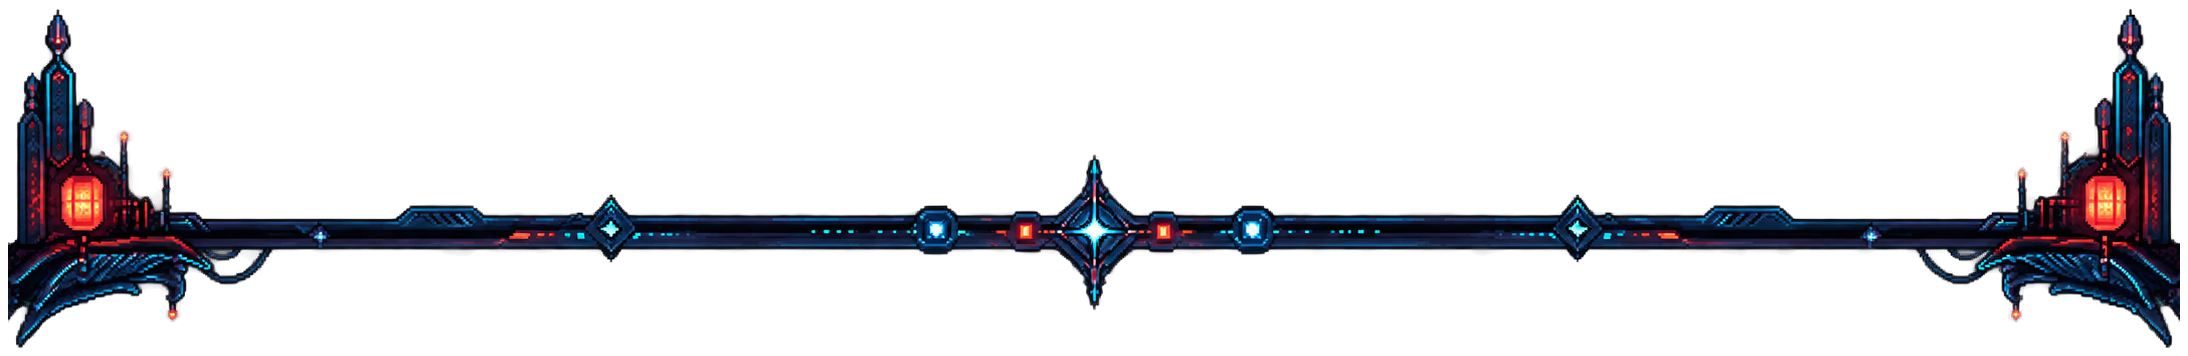
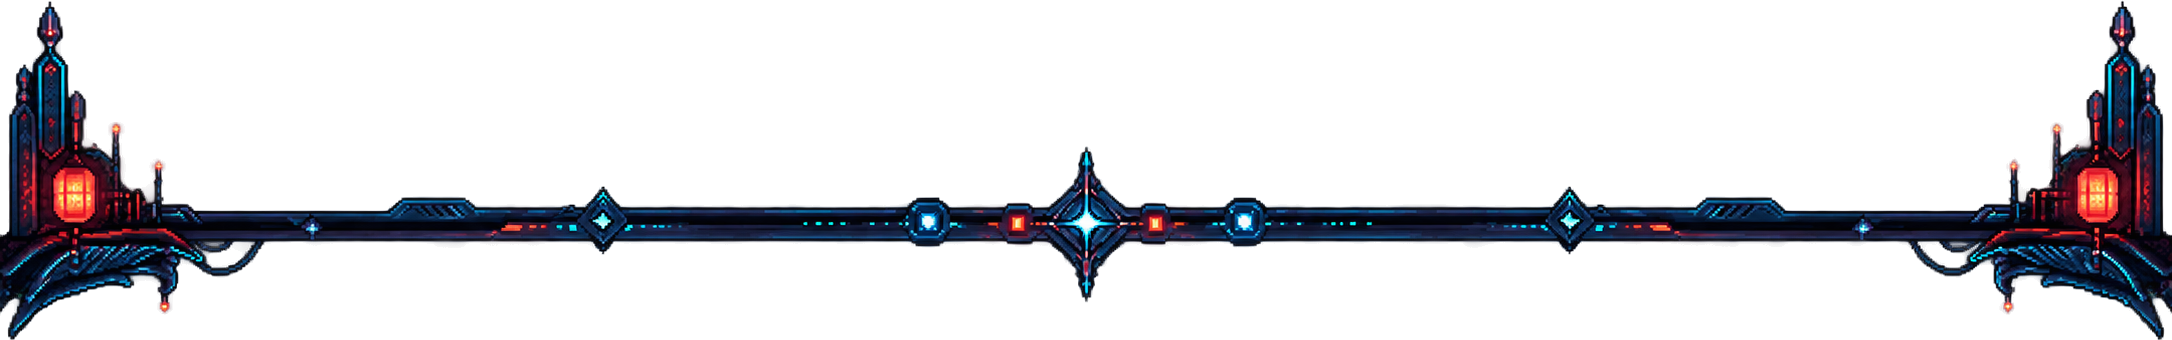
ajuste: refina molduras e limpa a abertura do perfil

Changed region(s): [[0.0, 0.0294, 1.0, 1.0]]

diff --git a/assets/v3/ASSET_MANIFEST.md b/assets/v3/ASSET_MANIFEST.md
@@ -2,7 +2,7 @@
 
 Fonte autoritativa: `github-profile-assets-v3.zip`, fornecido em 2026-09-07. Branch: `feat/profile-readme-v3`.
 
-Os três WebPs animados são cópias byte a byte dos originais. PNGs: alpha real confirmado; removido apenas resíduo quase invisível (alpha <= 8/255) antes do bounding box, sem remover preto interno da arte. Padding transparente 8px (6px nos micro-assets). Famílias estáticas têm derivados proporcionais normalizados; os masters permanecem em `source/`, sem redução. Sem OCR. Coordenadas reproduzíveis em `crop-map.json`.
+Os três WebPs animados são cópias byte a byte dos originais. PNGs: alpha real confirmado; removido apenas resíduo quase invisível (alpha <= 8/255) antes do bounding box, sem remover preto interno da arte. Padding transparente 8px (6px nos micro-assets); molduras sem padding após refinamento e header limpo com 4px. Famílias estáticas têm derivados proporcionais normalizados; os masters permanecem em `source/`, sem redução. Sem OCR. Coordenadas reproduzíveis em `crop-map.json`.
 
 Jardim de contribuições adiado por solicitação do usuário: não renderizar seção nem exigir sua placa neste checkpoint. Os seis arquivos `assets/arvore-*.jpg` foram recuperados de `origin/main` apenas para preservar o workflow existente, sem alterar a branch main.
 
@@ -25,11 +25,11 @@ O checkpoint contém entrada, Sobre mim e divisor; Vergil permanece visível com
 | stack-icons-1 | source/stack-icons-1.png | stack-icons-1.png | source | 1448 × 1086 | Original do ZIP; não usar diretamente no README. |
 | vite-ico | source/vite-ico.png | vite-ico.png | source | 1254 × 1254 | Original do ZIP; não usar diretamente no README. |
 | Katana original | source/katana_asset_transparente_v4.gif | katana_asset_transparente_v4.gif | source | 1600 × 380 | GIF original preservado. |
-| frame-top | frame/frame-top.png | border-top.png | final | 2188 × 353 | Recorte [0, 165, 2172, 502]; padding 8px. Escala nativa. |
-| frame-bottom | frame/frame-bottom.png | border-bottom.png | final | 2188 × 356 | Recorte [0, 313, 2172, 653]; padding 8px. Escala nativa. |
+| frame-top | frame/frame-top.png | border-top.png | final | 2172 × 337 | Recorte [0, 165, 2172, 502]; padding 0px. Escala nativa.  Encaixada diretamente ao conteúdo no mesmo parágrafo. |
+| frame-bottom | frame/frame-bottom.png | border-bottom.png | final | 2172 × 340 | Recorte [0, 313, 2172, 653]; padding 0px. Escala nativa.  Encaixada diretamente ao conteúdo no mesmo parágrafo. |
 | divisor-principal | dividers/divisor-principal.png | divisor principal.png | final | 2159 × 174 | Recorte [15, 282, 2158, 440]; padding 8px. Escala nativa. |
 | divisor-secundario | dividers/divisor-secundario.png | divisor-secundario.png | final | 2038 × 130 | Recorte [75, 302, 2097, 416]; padding 8px. Escala nativa. |
-| sobre-mim | headers/sobre-mim.png | header-sobre-mim.png | final | 1962 × 545 | Recorte [113, 98, 2059, 627]; padding 8px. Escala nativa. |
+| sobre-mim | headers/sobre-mim.png | header-sobre-mim.png | source | 1962 × 545 | Recorte [113, 98, 2059, 627]; padding 8px. Versão floral anterior preservada; substituída no README pela versão limpa. |
 | forja-tecnica | headers/forja-tecnica.png | header-tecnica.png | final | 1962 × 448 | Recorte [113, 138, 2059, 570]; padding 8px. Escala nativa. |
 | github | contact/github.png | contatos-icons.png | final | 440 × 440 | Recorte [180, 189, 571, 584]; padding 8px. Derivado normalizado proporcionalmente; master intacto em source/. |
 | linkedin | contact/linkedin.png | contatos-icons.png | final | 440 × 440 | Recorte [697, 196, 1107, 587]; padding 8px. Derivado normalizado proporcionalmente; master intacto em source/. |
@@ -83,7 +83,7 @@ O checkpoint contém entrada, Sobre mim e divisor; Vergil permanece visível com
 | personagem-fallback | about/personagem-fallback.png | programador-transparente.webp | fallback | 448 × 528 | Primeiro frame; não substitui animação nesta montagem. |
 | vergil-animado | footer/vergil-animado.webp | vergil-runtime-v3.7-exact-color.webp | final | 1200 × 240 | WebP original intacto; 20.60 MiB. |
 | vergil-fallback | footer/vergil-fallback.png | vergil-runtime-v3.7-exact-color.webp | fallback | 1200 × 240 | Primeiro frame; não substitui animação nesta montagem. |
-| Katana acento | dividers/katana-acento.webp | katana_asset_transparente_v4.gif | final | 1265 × 150 | Recorte união de 63 frames (128, 133, 1377, 267); WebP lossless; tempos e loop preservados; exibir a 24%. |
+| Katana acento | dividers/katana-acento.webp | katana_asset_transparente_v4.gif | reservado | 1265 × 150 | Recorte união de 63 frames (128, 133, 1377, 267); WebP lossless; tempos e loop preservados; Aprovada e reservada para reposicionamento futuro; fora do README. |
 | Projetos | headers/projetos.png | Não consta no ZIP | MISSING_APPROVED_ASSET | — | Não substituir por asset inventado. |
 | Contato (placa) | headers/contato.png | Não consta no ZIP | MISSING_APPROVED_ASSET | — | Não substituir por asset inventado. |
 | REST API | stack/rest-api.png | Não consta no ZIP | MISSING_APPROVED_ASSET | — | Não substituir por asset inventado. |
@@ -91,11 +91,33 @@ O checkpoint contém entrada, Sobre mim e divisor; Vergil permanece visível com
 ## Verificação do checkpoint
 
 - README passou pelo endpoint Markdown do GitHub: percentuais, `align="right"` e `br clear="right"` foram preservados pelo sanitizador.
-- Preview local usa esse HTML e aproxima o tema escuro do GitHub; conferido a 1100px e 390px, com as oito imagens carregadas e sem overflow horizontal. Não é screenshot da página remota.
+- Preview local usa esse HTML e aproxima o tema escuro do GitHub; conferido a 1100px e 390px, com as oito imagens da primeira montagem carregadas e sem overflow horizontal. Não é screenshot da página remota.
 - Banner: 2172 × 724; personagem: 448 × 528; Vergil: 1200 × 240. Os três WebPs são byte a byte iguais ao ZIP, sem recompressão.
-- Molduras: 2188 × 353 e 2188 × 356, incluindo padding. A altura restante pertence ao desenho das extremidades; não é área vazia da spritesheet.
+- Molduras refinadas: 2172 × 337 e 2172 × 340, sem padding adicional. A altura restante pertence ao desenho das extremidades; não é área vazia da spritesheet.
 - Stack: 400 × 400; contatos: 440 × 440; chips: 536 × 180. Escala proporcional, sem deformação; fontes em resolução original preservadas.
 - Katana: 1265 × 150, 63 frames. Recorte pela união de TODOS os frames; derivado WebP lossless; original GIF preservado.
 - Os PNGs do ZIP têm alpha real, mas continham resíduos com alpha mínimo espalhados por grandes áreas. Recortes descartam somente alpha <= 8/255. Preto visível interno não foi convertido em transparência.
 - Risco pendente: os três WebPs somam 131,10 MiB. O envio Git comporta cada arquivo, mas o carregamento frio do README pode ser demorado; validar o carregamento remoto antes de decidir por uma versão otimizada.
 - Restam ausentes apenas a placa de Projetos, a placa de Contato e o ícone de stack REST API. Jardim está fora do escopo por decisão do usuário.
+
+## Refinamento de limpeza e encaixe
+
+Branch confirmada pelo usuário: `feat/profile-readme-v3`. Jardim permanece fora.
+
+- Molduras superior e inferior: retirados os 8px de padding dos quatro lados, sem reamostragem. Arte e transparência interna preservadas. Largura de 100%, o máximo da área de conteúdo do GitHub. Não é possível ultrapassar essa área com HTML de README.
+- Topo e banner agora compartilham um parágrafo; Vergil e moldura inferior também. Removida a margem de parágrafo que separava cada moldura do conteúdo, com o recuo leve de largura autorizado depois pelo usuário.
+- Katana aprovada e reservada em `dividers/katana-acento.webp`; original em `source/katana_asset_transparente_v4.gif`. Ambos intactos. Não aparece no README e não foi reposicionada.
+- Header sem flores em `headers/sobre-mim-limpo.png`; original floral em `source/header-sobre-mim.png` e derivado anterior em `headers/sobre-mim.png`. Edição feita com a ferramenta de imagem integrada. O fundo quadriculado opaco da saída foi removido por conectividade do fundo claro neutro às bordas; PNG final tem alpha real, recorte justo e 4px de padding, sem blur ou reamostragem.
+- Pedido de edição usado: “Remover flores, pétalas e galhos laterais; reconstruir somente linhas arquitetônicas ocultas; preservar moldura, texto Sobre mim, lanternas, placas de kanji, cores cyan/vermelho e proporções; sem novas decorações, blur ou fundo opaco.”
+- Banner, personagem, divisor interno e Vergil permanecem com os mesmos arquivos, comprovados por comparação binária. Após autorização do usuário para reduzir levemente o conteúdo, banner e Vergil passaram de 100% para 94% de largura somente no HTML. Personagem continua em 36%, divisor em 92% e header em 60%. Textos provisórios preservados.
+
+| Nome lógico | Path relativo a assets/v3 | Origem | Status | Dimensões | Uso |
+|---|---|---|---|---|---|
+| Sobre mim limpo | headers/sobre-mim-limpo.png | Edição de headers/sobre-mim.png | final | 2001 × 543 | PNG com alpha real; 60% no README. |
+
+### Validação do refinamento
+
+- Sete imagens carregadas no preview feito com HTML sanitizado pelo GitHub; conferência visual a 1100px e 390px, sem rolagem horizontal.
+- Comparação antes/depois: eliminados o intervalo da katana e as flores laterais; as molduras envolvem visualmente banner e rodapé com pequeno recuo lateral do conteúdo.
+- Comparação binária confirma banner, personagem, Vergil, divisor e dois arquivos da katana intactos. Nas molduras, todos os pixels do recorte são idênticos aos da versão anterior.
+- Workflows, árvore e demais famílias de assets não foram alterados.

diff --git a/README.md b/README.md
@@ -1,15 +1,10 @@
-<!-- V3 checkpoint: entrada e Sobre mim. Copy provisória. -->
+<!-- V3: montagem inicial da entrada e Sobre mim. Texto provisório. -->
 <p align="center">
-  <img src="./assets/v3/frame/frame-top.png" width="100%" alt="" />
+  <img src="./assets/v3/frame/frame-top.png" width="100%" alt="" /><br />
+  <img src="./assets/v3/banner/banner-animado.webp" width="94%" alt="Pedro Artur em cenário noturno cyber oriental em pixel art" />
 </p>
 <p align="center">
-  <img src="./assets/v3/banner/banner-animado.webp" width="100%" alt="Pedro Artur em cenário noturno cyber oriental em pixel art" />
-</p>
-<p align="center">
-  <img src="./assets/v3/dividers/katana-acento.webp" width="24%" alt="" />
-</p>
-<p align="center">
-  <img src="./assets/v3/headers/sobre-mim.png" width="60%" alt="Sobre mim" />
+  <img src="./assets/v3/headers/sobre-mim-limpo.png" width="60%" alt="Sobre mim" />
 </p>
 
 <img align="right" src="./assets/v3/about/personagem-animado.webp" width="36%" alt="Personagem de Pedro com gato no ombro interagindo com uma interface holográfica" />
@@ -28,10 +23,8 @@
   <img src="./assets/v3/dividers/divisor-principal.png" width="92%" alt="" />
 </p>
 
-<!-- Fim do checkpoint. Footer aprovado preservado visível durante a montagem. -->
+<!-- Fim da montagem inicial. Rodapé aprovado preservado visível. -->
 <p align="center">
-  <img src="./assets/v3/footer/vergil-animado.webp" width="100%" alt="Vergil em pixel art no rodapé" />
-</p>
-<p align="center">
+  <img src="./assets/v3/footer/vergil-animado.webp" width="94%" alt="Vergil em pixel art no rodapé" /><br />
   <img src="./assets/v3/frame/frame-bottom.png" width="100%" alt="" />
 </p>
